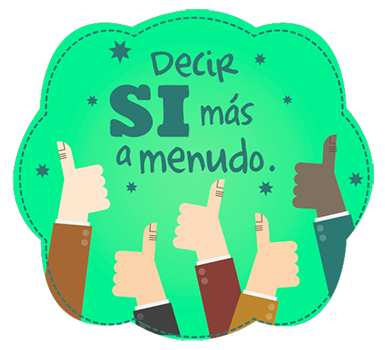
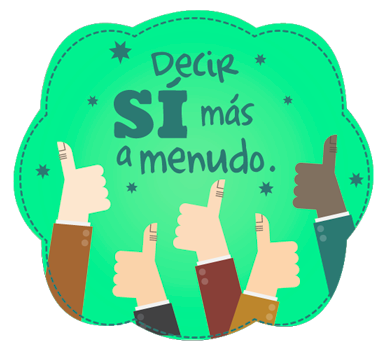
Fixes and mods

diff --git a/app/scripts/main.js b/app/scripts/main.js
@@ -23,7 +23,7 @@ App = {
       { id:6, text:'Hacerme famoso' },
       { id:7, text:'Reencontrarme con un viejo amigo' },
       { id:8, text:'Practicar un nuevo deporte' },
-      { id:9, text:'Eliminar la tecla "posponer" del despoertador' },
+      { id:9, text:'Eliminar la tecla "posponer" del despertador' },
       { id:10, text:'Pasar más tiempo con los míos' },
       { id:11, text:'Volver a disfrutar de cada momento como cuando era un niño' },
       { id:12, text:'Meditar 5 minutos al día.' },
@@ -35,11 +35,11 @@ App = {
       { id:18, text:'Aprender a cocinar' },
       { id:19, text:'Escuchar más mi música favorita' },
       { id:20, text:'Cambiar de look' },
-      { id:21, text:'Reciclar Más' },
+      { id:21, text:'Reciclar más' },
       { id:22, text:'Ayudar más a los míos' },
       { id:23, text:'Hacer sonreír a alguien cada día' },
       { id:24, text:'Correr en una carrera... ¡entera!' },
-      { id:25, text:'Comer al menos un Yogur al día' },
+      { id:25, text:'Comer al menos un yogur al día' },
       { id:26, text:'Dedicarle más tiempo a mi hobby favorito' },
       { id:27, text:'Probar algo nuevo cada semana.' },
       { id:28, text:'Decir NO más a menudo.' },
@@ -48,7 +48,7 @@ App = {
       { id:31, text:'Quererme más a mí misma.' },
       { id:32, text:'Conocer gente nueva.' },
       { id:33, text:'Dejar de preocuparme por lo que piensen los demás.' },
-      { id:34, text:'Cambiar de look.' },
+      //{ id:34, text:'Cambiar de look.' },
       { id:35, text:'Hacer un curso de algo exótico.' },
       { id:36, text:'Ver más puestas de sol.' },
       { id:37, text:'Pasar más tiempo con mi familia.' },
@@ -190,7 +190,7 @@ App = {
       $('.mailto').attr('href', 'mailto:?&subject=Estos son mis propósitos para 2016&body='+url);
       $('.facebook').attr('href', 'https://www.facebook.com/sharer/sharer.php?u='+url);
       $('.twitter').attr('href', 'http://www.twitter.com/share?text=Estos%20son%20mis%20propósitos%20para%202016%20-%20&url='+url);
-      $('#share_button').attr('href', href);
+      //$('#share_button').attr('href', href);
     },
     // hide Modal and show Purpose Screen
     backToPurposes: function(){
@@ -218,10 +218,12 @@ App = {
     // show modals
     showModal: function(modalId){
       $('.modal#'+modalId).addClass('in');
+      $('#app').addClass('no-scroll');
     },
     // show modals
     hideModal: function(){
       $('.modal.in').removeClass('in');
+      $('#app').removeClass('no-scroll');
     },
     // Toggle Menu List
     toggleList: function(){
@@ -297,13 +299,14 @@ App = {
         // Restart purposes list
         .on('click', '#repeat .button-repeat', App.controller.restartPurposes)
         // Go to finish Page
-        //.on('click', '#list #finish-button', App.ui.goFinish)
+        .on('click', '#list #finish-button', App.ui.goFinish)
         .on('click', '#checkpoint .button-finish', App.ui.goFinish)
         // back to purposes from checkpoint modal
         .on('click', '#checkpoint .button-back', App.ui.backToPurposes)
         // show/hide list
         .on('click', '#list .remove', App.controller.removeAddedPurpose)
         // show/hide list
+        .on('click', '#share_button', App.ui.toggleList)
         .on('click', '#list-button', App.ui.toggleList)
         // purpose action buttons 
         .on('click', '#accept:not(.active)', App.controller.acceptPurpose)
@@ -364,11 +367,15 @@ App = {
     App.controller.initList();
     var hash = window.location.hash,
       indexes = hash.replace('#','').split('-'),
-      items = indexes.map(function(cur){ return App.purposesItems[cur] });
+      items = indexes.map(function(cur){ return $.grep(App.purposesItems, function(e){ return e.id == cur; })[0]; });
     items.forEach(function(item, idx){
       if(typeof item != 'undefined'){ 
         var html = $('<div class="purpose"><span class="index">'+(idx+1)+'</span><span class="name">'+item.text+'</span></div>');
-        html.appendTo('#added-purposes');
+        if($('body').hasClass('desktop')){
+          html.appendTo('#added-purposes');
+        }else{
+          html.appendTo('#added-purposes-mobile');
+        }
       }
     });
     setTimeout(function(){

diff --git a/app/index.html b/app/index.html
@@ -2,10 +2,25 @@
 <html lang="">
   <head>
     <meta charset="utf-8">
-    <title>Nuevos Propósitos</title>
+    <title>El Reno de los Nuevos Propósitos</title>
     <meta name="description" content="">
     <meta name="viewport" content="width=device-width, initial-scale=1, maximum-scale=1, user-scalable=0"/>
+
+    <!-- Facebook Open Graph Markup -->
+    <meta property='og:url' content="http://http://www.elrenodelosbuenospropositos.es/" />
+    <meta property='og:type' content="website" />
+    <meta property='og:site_name' content='El Reno de los Buenos Propósitos' />
+    <meta property='og:title' content='El Reno de los Buenos Propósitos' />
+    <meta property='og:description' content='¡Es época de proponerse buenos propósitos! ¿Quieres escribir tu lista?' />
+    <meta property='og:image' content="http://http://www.elrenodelosbuenospropositos.es/images/static/facebook_image.jpg" />
     
+    <!-- Twitter Card -->
+    <meta name="twitter:card" content="summary_large_image">
+    <meta name="twitter:site" content="@danonesonrisas">
+    <meta name="twitter:title" content="El Reno de los Buenos Propósitos">
+    <meta name="twitter:description" content="¡Es época de proponerse buenos propósitos! ¿Quieres escribir tu lista?">
+    <meta name="twitter:image" content="http://http://www.elrenodelosbuenospropositos.es/images/static/twitter_card.jpg">
+
     <!-- BROWSER BAR COLOR -->
     <meta name="theme-color" content="#487bde"> <!-- Chrome, Firefox OS and Opera -->
     <meta name="msapplication-navbutton-color" content="#487bde"> <!-- Windows Phone -->
@@ -49,13 +64,13 @@
               <div class="slide-item active" id="step-1" data-slide="1">
                 <div class="instructions">
                   <div class="image"></div>
-                  <p>Es época de ponerse buenos propósitos.<br/>¿Quieres escribir tu lista?</p>
+                  <p>Es época de proponerse buenos propósitos.<br/>¿Quieres escribir tu lista?</p>
                 </div>
               </div>
               <div class="slide-item pending" id="step-2" data-slide="2">
                 <div class="instructions">
                   <div class="image"></div>
-                  <p>Lee con atención<br/>cada buen proposito</p>
+                  <p>Lee con atención<br/>cada buen propósito</p>
                 </div>
               </div>
               <div class="slide-item pending" id="step-3" data-slide="3">
@@ -76,7 +91,7 @@
               <div class="tutorial-item" id="step-1">
                 <div class="image"></div>
                 <div class="instructions">
-                  <p>1. Lee con atención<br/>cada buen proposito</p>
+                  <p>1. Lee con atención<br/>cada buen propósito</p>
                 </div>
               </div>
               <div class="tutorial-item" id="step-2">
@@ -144,11 +159,11 @@
       <div id="list">
         <div class="list-wrapper"><div id="added-purposes"></div></div>
         <div id="finish-button" class="button">
-          <div class="share-wrapper">
+          <!--<div class="share-wrapper">
             <a href="#" class="mailto" id="share_mailto"></a>
             <a href="#" target="_blank" class="facebook" id="share_facebook"></a>
             <a href="#" target="_blank" class="twitter" id="share_twitter"></a>
-          </div>
+          </div>-->
         </div>
       </div>
       <div id="finish">
@@ -158,7 +173,7 @@
           <a href="#" target="_blank" class="facebook" id="share_facebook"></a>
           <a href="#" target="_blank" class="twitter" id="share_twitter"></a>
       </div>
-      <a href="#" target="_blank" class="button list-button" id="share_button"></a>
+      <div class="button list-button" id="share_button"></a>
     </div>
     
 

diff --git a/app/list/index.html b/app/list/index.html
@@ -2,10 +2,24 @@
 <html lang="">
   <head>
     <meta charset="utf-8">
-    <title>Nuevos Propósitos</title>
+    <title>El Reno de los Nuevos Propósitos</title>
     <meta name="description" content="">
     <meta name="viewport" content="width=device-width, initial-scale=1, maximum-scale=1, user-scalable=0"/>
+
+    <!-- Facebook Open Graph Markup -->
+    <meta property='og:type' content="website" />
+    <meta property='og:site_name' content='El Reno de los Buenos Propósitos' />
+    <meta property='og:title' content='¡Estos son los propósitos que este año SÍ cumpliré!' />
+    <meta property='og:description' content='¡Es época de proponerse buenos propósitos! ¿Quieres escribir tu lista?' />
+    <meta property='og:image' content="http://http://www.elrenodelosbuenospropositos.es/images/static/facebook_image.jpg" />
     
+    <!-- Twitter -->
+    <meta name="twitter:card" content="summary_large_image">
+    <meta name="twitter:site" content="@danonesonrisas">
+    <meta name="twitter:title" content="¡Estos son los propósitos que este año SÍ cumpliré!">
+    <meta name="twitter:description" content="¡Es época de proponerse buenos propósitos! ¿Quieres escribir tu lista?">
+    <meta name="twitter:image" content="http://http://www.elrenodelosbuenospropositos.es/images/static/twitter_card.jpg">
+
     <!-- BROWSER BAR COLOR -->
     <meta name="theme-color" content="#487bde"> <!-- Chrome, Firefox OS and Opera -->
     <meta name="msapplication-navbutton-color" content="#487bde"> <!-- Windows Phone -->
@@ -44,15 +58,20 @@
 
     <div id="share">
       <div class="header"></div>
+      <div id="topbar">
+        <div class="logo"></div>
+        <div class="title">El Reno de los buenos propósitos</div>
+        <div id="list-button"></div>
+      </div>
       <div id="list">
         <h1>Esta es la lista que este año <u>SÍ</u> cumpliré</h1>
           <div id="content-added-purposes" class="simplebar" data-simplebar-direction="vertical">     
-        <div id="added-purposes"></div>
+            <div id="added-purposes"></div>
           </div>
-
+          <div id="added-purposes-mobile"></div>
           <div id="content-finish-button">
-        <a href="/" id="finish-button" class="button"></a>
-      </div>
+            <a href="/" id="finish-button" class="button"></a>
+          </div>
       </div>
     </div>
 

diff --git a/app/styles/main.scss b/app/styles/main.scss
@@ -374,7 +374,7 @@ body.mobile{
       .title{
         display: inline-block;
         vertical-align: middle;
-        font-size: 22px;
+        font-size: 5.5vw; //22px;
         color: $textColor;
         margin-left: 0px;
       }
@@ -427,10 +427,10 @@ body.mobile{
         height: 0;
         margin: 1% 5%;
         padding-bottom: 18.68%;
-        background: transparent url(/images/mobile/bt_share.png) 0 -1% no-repeat;
+        background: transparent url(/images/mobile/bt_share.png) 0 100% no-repeat;
         background-size: 100% auto;
         &.active{
-          background-position: 0 100%;
+          background-position: 0 -1%;
         }
         .share-wrapper{
           position: absolute;
@@ -513,19 +513,21 @@ body.mobile{
             transform: translateY(-50%) translateX(-50%);
             color: $textColor;
             font-size: 16px;
+            line-height: 1.2em;
             text-align: center;
-            width: 80%;
-            margin-left: 20px;
+            width: 70%;
+            margin: 0 25px 0 15px;
           }
           .remove{
             position: absolute;
             display: inline-block;
-            top: 8%;
-            right: 3%;
+            top: -7.5%;
+            right: -1%;
             width: 22px;
             height: 22px;
-            background: transparent url(/images/mobile/bt_close.png) top center no-repeat;
-            background-size: contain;
+            padding: 10px;
+            background: transparent url(/images/mobile/bt_close.png) center no-repeat;
+            background-size: 22px 22px;
           }
         }
       }

diff --git a/app/styles/_desktop.scss b/app/styles/_desktop.scss
@@ -73,7 +73,7 @@ body.desktop{
       position: absolute;
       z-index: 0;
       width: 100%;
-      height: 100%;
+      min-height: 100%;
       box-sizing: border-box;
       max-height: 100%;
       padding-bottom: 20px;
@@ -410,20 +410,21 @@ body.desktop{
 
       }
       #finish-button{
-        cursor: default;
+        //cursor: default;
+        cursor: pointer;
         position: fixed;
         bottom: 0px;
         left: 50%;
         margin-left: -203px;
         width: 406px;
         height: 86px;
-        background: transparent url(/images/mobile/bt_share.png) 0 -2% no-repeat;
+        background: transparent url(/images/mobile/bt_share.png) 0 103% no-repeat;
         background-size: 100% auto;
         transform: translateY(100%);
         transition: transform .25s ease-in;
         &:hover,
         &.active{
-          background-position: 0 100%;
+          background-position: 0 0%;
         }
         .share-wrapper{
           position: absolute;

diff --git a/app/styles/list.scss b/app/styles/list.scss
@@ -15,7 +15,6 @@ body {
 // colors
 $textColor: #009cde;
 $electricBlue: #487bde;
-$creamBlue: #7aa28e;
 
 body.mobile{
   background: transparent url(/images/mobile/bg_1.gif) center 8% no-repeat;
@@ -109,6 +108,9 @@ body.mobile{
         font-weight: 400;
       }
       #added-purposes{
+        display: none;
+      }
+      #added-purposes-mobile{
         position: absolute;
         top: 0;
         left: 0;
@@ -206,6 +208,9 @@ body.desktop{
       background: transparent url(/images/desktop/lettering.png) top center no-repeat;
       background-size: contain;
     }
+    #topbar{
+      display: none;
+    }
     #list{
       position: absolute;
       z-index: 30;
@@ -252,7 +257,9 @@ body.desktop{
             }
           }
       }
-
+      #added-purposes-mobile{
+        display: none;
+      }
       #content-added-purposes {    
         position:relative; 
         width: 545px;

diff --git a/Gruntfile.js b/Gruntfile.js
@@ -221,7 +221,7 @@ module.exports = function (grunt) {
         src: [
           '<%= config.dist %>/scripts/{,*/}*.js',
           '<%= config.dist %>/styles/{,*/}*.css',
-          ['<%= config.dist %>/images/{,*/}*.*'],
+          ['<%= config.dist %>/images/{,*/}*.*', '!<%= config.dist %>/images/static/{,*/}*.*'],
           //'<%= config.dist %>/styles/fonts/{,*/}*.*',
           '<%= config.dist %>/*.{ico,png}'
         ]
@@ -340,6 +340,7 @@ module.exports = function (grunt) {
             '*.{ico,png,txt}',
             'images/{,*/}*.webp',
             'images/purposes/{,*/}*.*',
+            'images/static/{,*/}*.*',
             'scripts/vendor/{,*/}*.*',
             '{,*/}*.html',
             'styles/fonts/{,*/}*.*'
